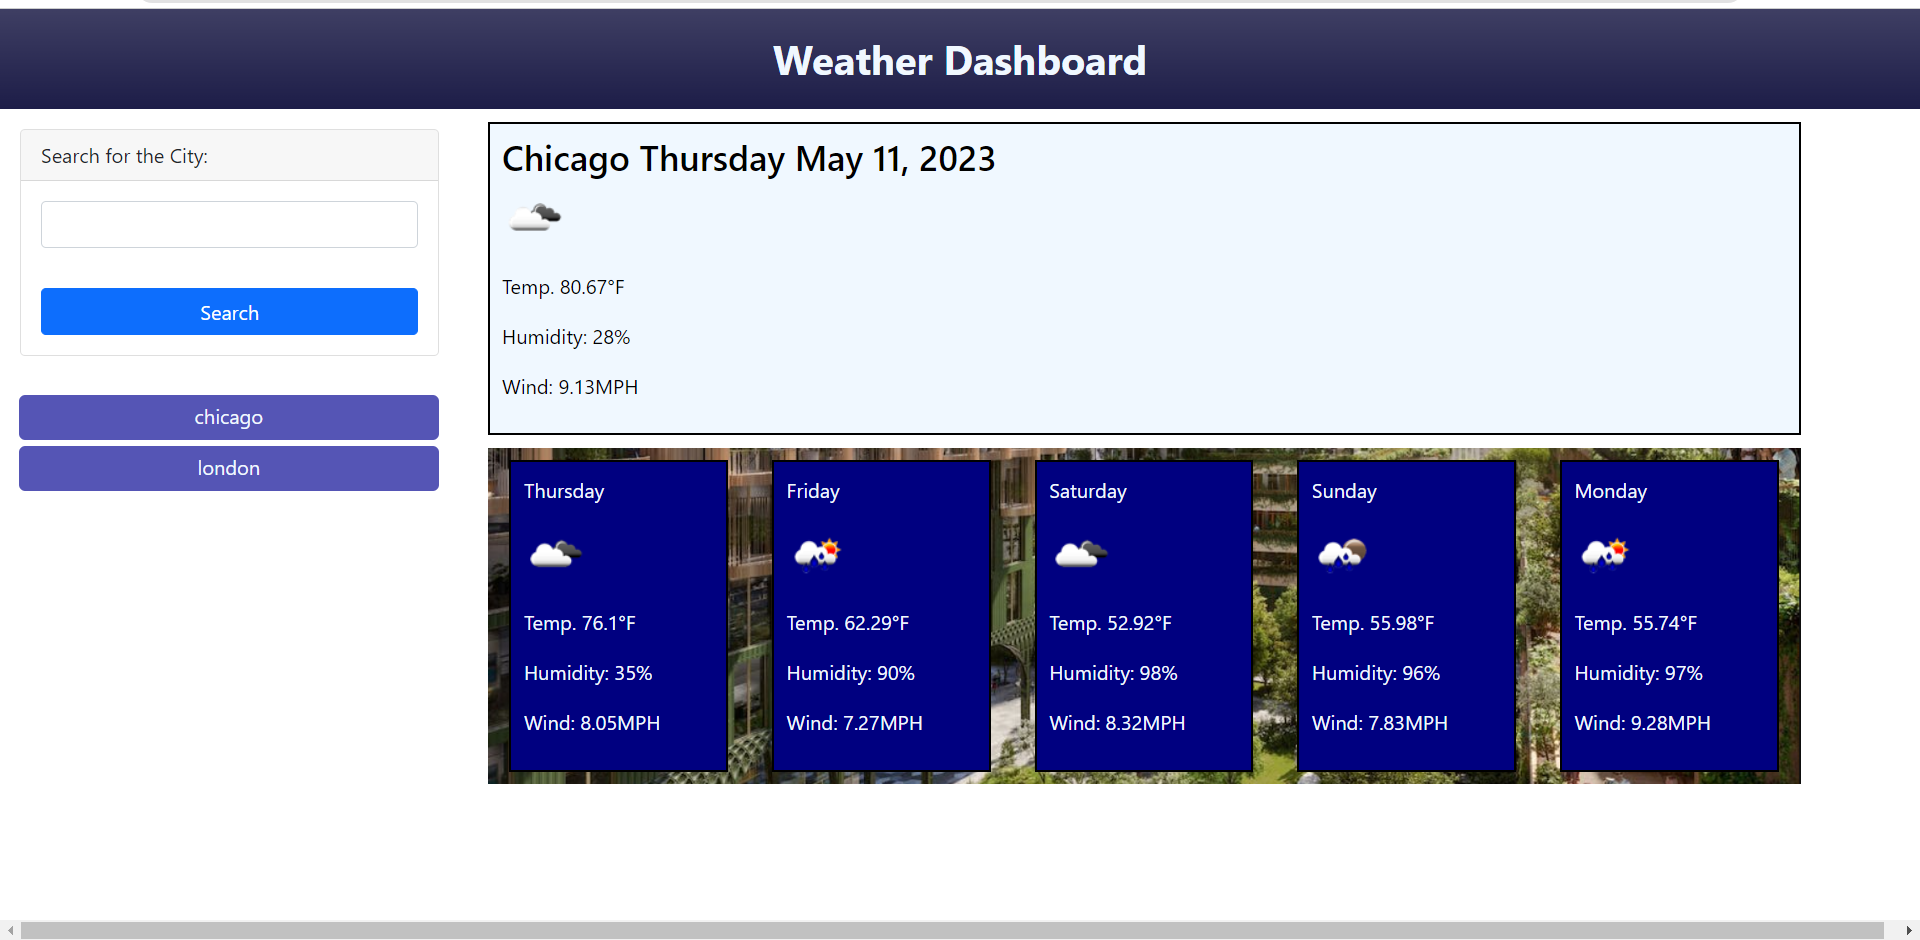
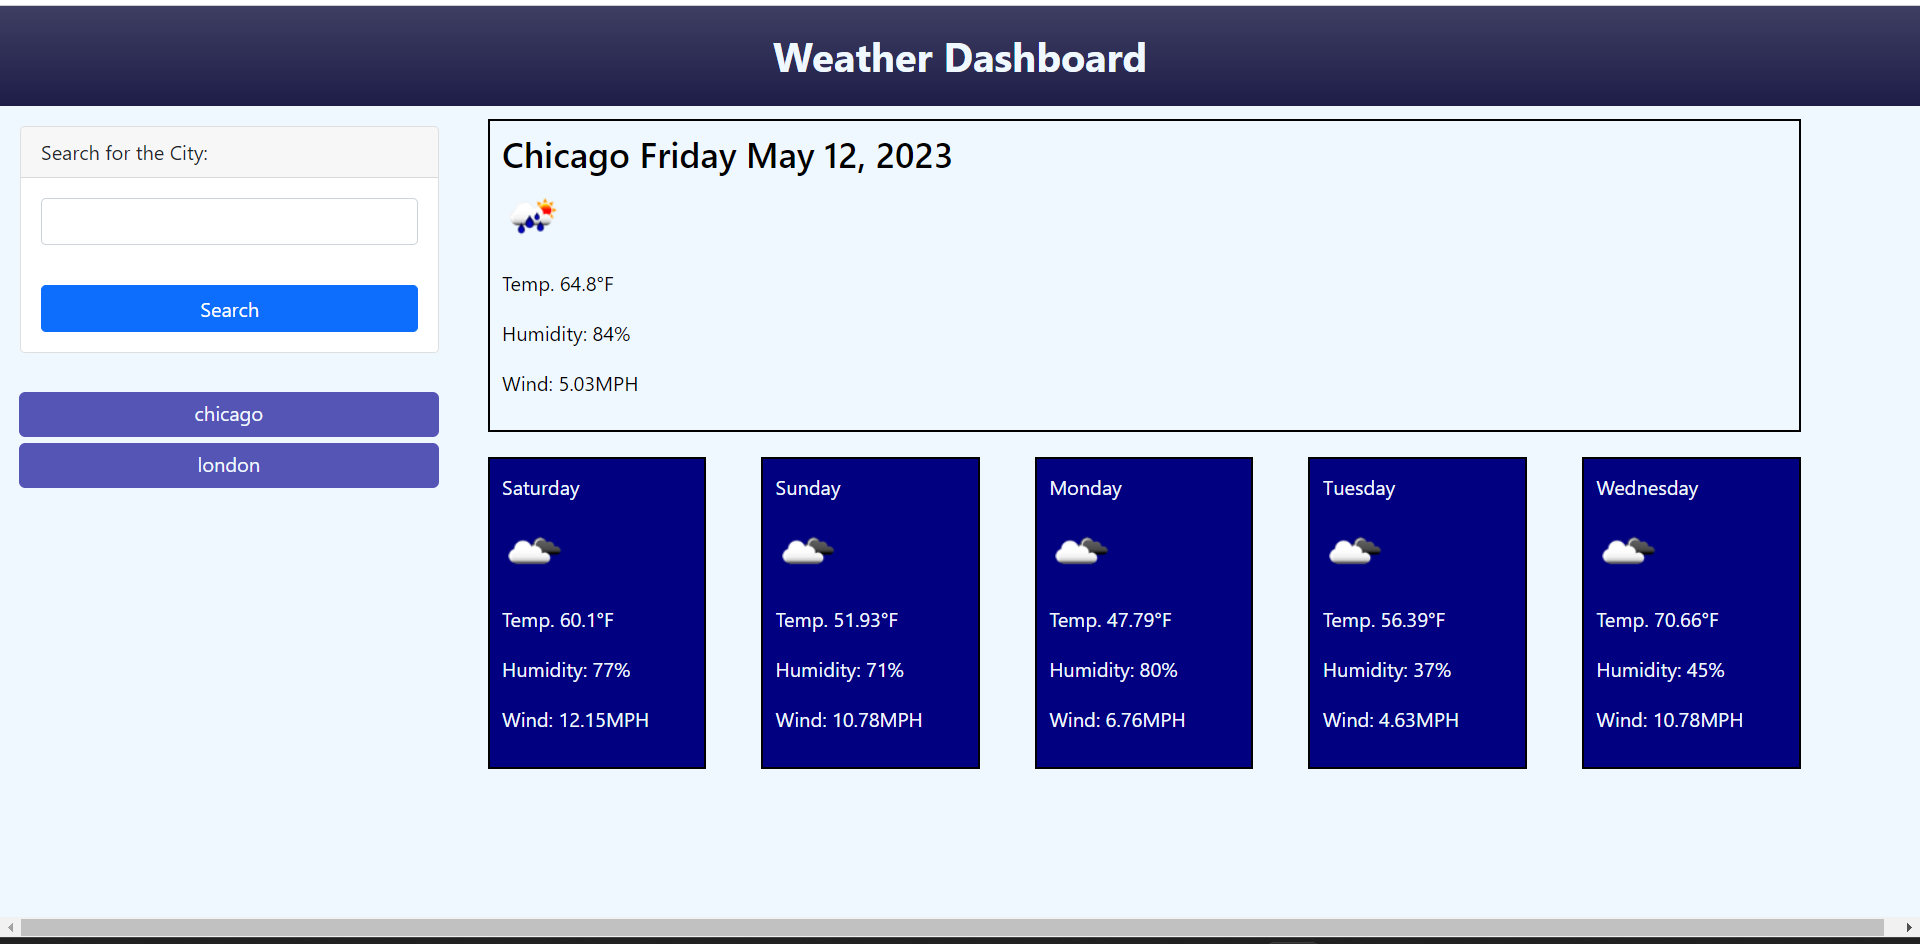
fixing background and weather display

diff --git a/assets/js/script.js b/assets/js/script.js
@@ -7,7 +7,7 @@ var currentContainer=document.querySelector('.current-forecast')
 var displayCity=document.getElementById('city')
 
 var currentDate=document.getElementById('current-date');
-var weatherToday=document.querySelector('.weather')
+var weatherToday=document.querySelector('.custom-weather')
 var searchEl=document.querySelectorAll('.saved-cities');
 
 function displaySearchHistory(){
@@ -141,7 +141,7 @@ var futureForecast=function(data){
     var listData=data.list
     console.log(listData);
     console.log(listData.length)
-    for (var i = 1,  id=1; i < listData.length,  id<6; i+=6, id++) {
+    for (var i = 7,  id=1; i < listData.length,  id<6; i+=6, id++) {
         
             var dayOfWeek=document.createElement("p");
             var weekday=dayjs().add(i*4, 'h' ).format('dddd');

diff --git a/assets/css/style.css b/assets/css/style.css
@@ -1,3 +1,6 @@
+body{
+    background-color: aliceblue;
+}
 .header{
     background-color: rgb(29, 29, 72);
     font-weight: bolder;
@@ -23,14 +26,13 @@
     background-repeat: no-repeat;
     background-size: cover;
 }
-.weather{
-    background-image: url("/assets/images/google-img.png");
+.custom-weather{
+    
     display: flex;
     flex-wrap: wrap;
+    justify-content: space-between;
     flex-direction: row;
-    background-position: center;
-    background-repeat: no-repeat;
-    background-size: cover;
+    
 }
 #weather-current{
     width:100%;

diff --git a/index.html b/index.html
@@ -44,7 +44,7 @@
         <div class="current-forecast col-11">
         
         </div>
-        <div class="weather col-11 justify-content-around">
+        <div class="custom-weather col-11">
         
         </div> 
       </div>
